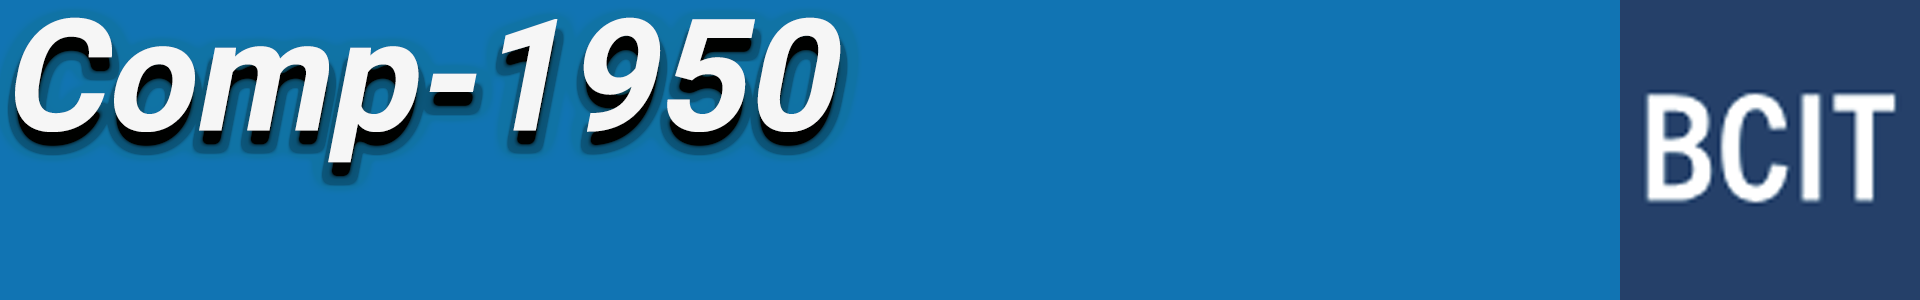
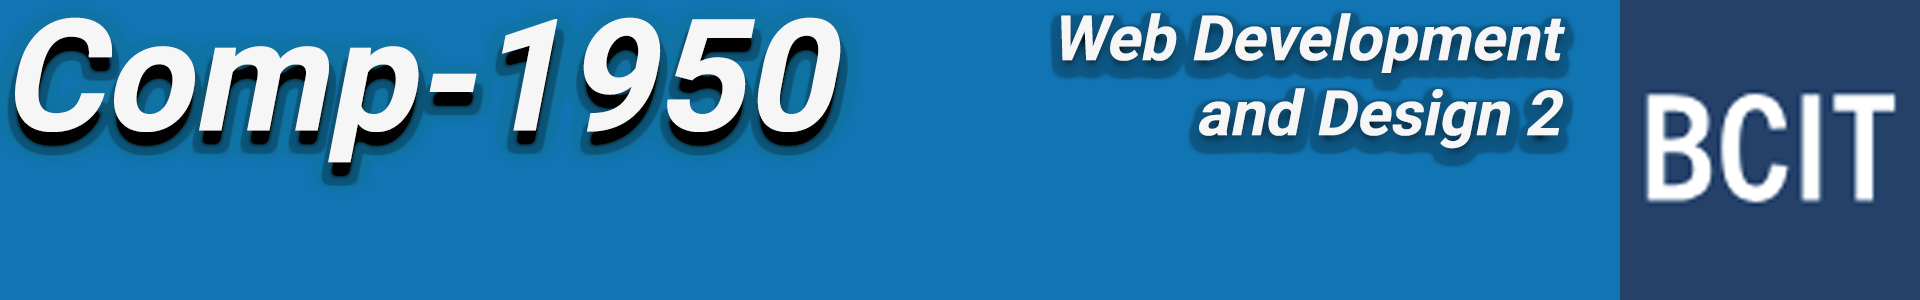
main_page

Changed region(s): [[0.5312, 0.03, 0.8438, 0.57]]

diff --git a/index_final.html b/index_final.html
@@ -51,7 +51,39 @@
         </ul>
     </nav>
     <main>
+<div>
+<article>
+    
+    <h1>Comp-1950 </h1>
+    <h2>Web Development and Design 2 </h2>
+    <p>This hands-on course follows on from COMP 1850 Applied Web Development Level 1. Students who already understand HTML and
+    CSS will explore web development in more depth with new topics and techniques. Participants will gain a deeper
+    understanding of the latest technologies including HTML5 and CSS3 for developing web sites and applications. There is a
+    focus on responsive design and mobile presentation through the use of Media Queries. Adding behavior to web sites using
+    JavaScript frameworks such as jQuery is introduced. Labs and exercises focus on industry standard web development
+    methodology. Students gain experience creating templates for content management systems and presentation. <br>
+    <br>
+    Additional
+    topics will include: leveraging Server Side Includes (SSI) for re-usable code, source control for managing your code,
+    and web-based fonts for professional typography. COMP 1950 is a required course for the BCIT Computing Advanced Web
+    Technologies associate certificates in Applied Web Development, AWD and Web and Mobile Application Development, WMA, as
+    well as an elective in the CST Diploma. COMP 1950 and COMP 2015 are also the prerequisites for COMP 2052 Android and
+    Mobile Application Development Tools. By the end of this course successful students will be able to build dynamic and
+    semantically marked-up content providing Search Engine Optimized (SEO) pages.</p>
+</article>
 
+<article>
+    
+    <p>Prerequisite(s)<br>
+    COMP 1850 or equivalent HTML5 and CSS3 knowledge. </p>
+</article>
+</div>
+
+
+<footer>
+    <img class="headpic" src="images/footer-1.png" alt="Blue footer">
+
+</footer>
 </div><!-- end wrapper -->
 <script src="scripts/menu.js"></script>
 
